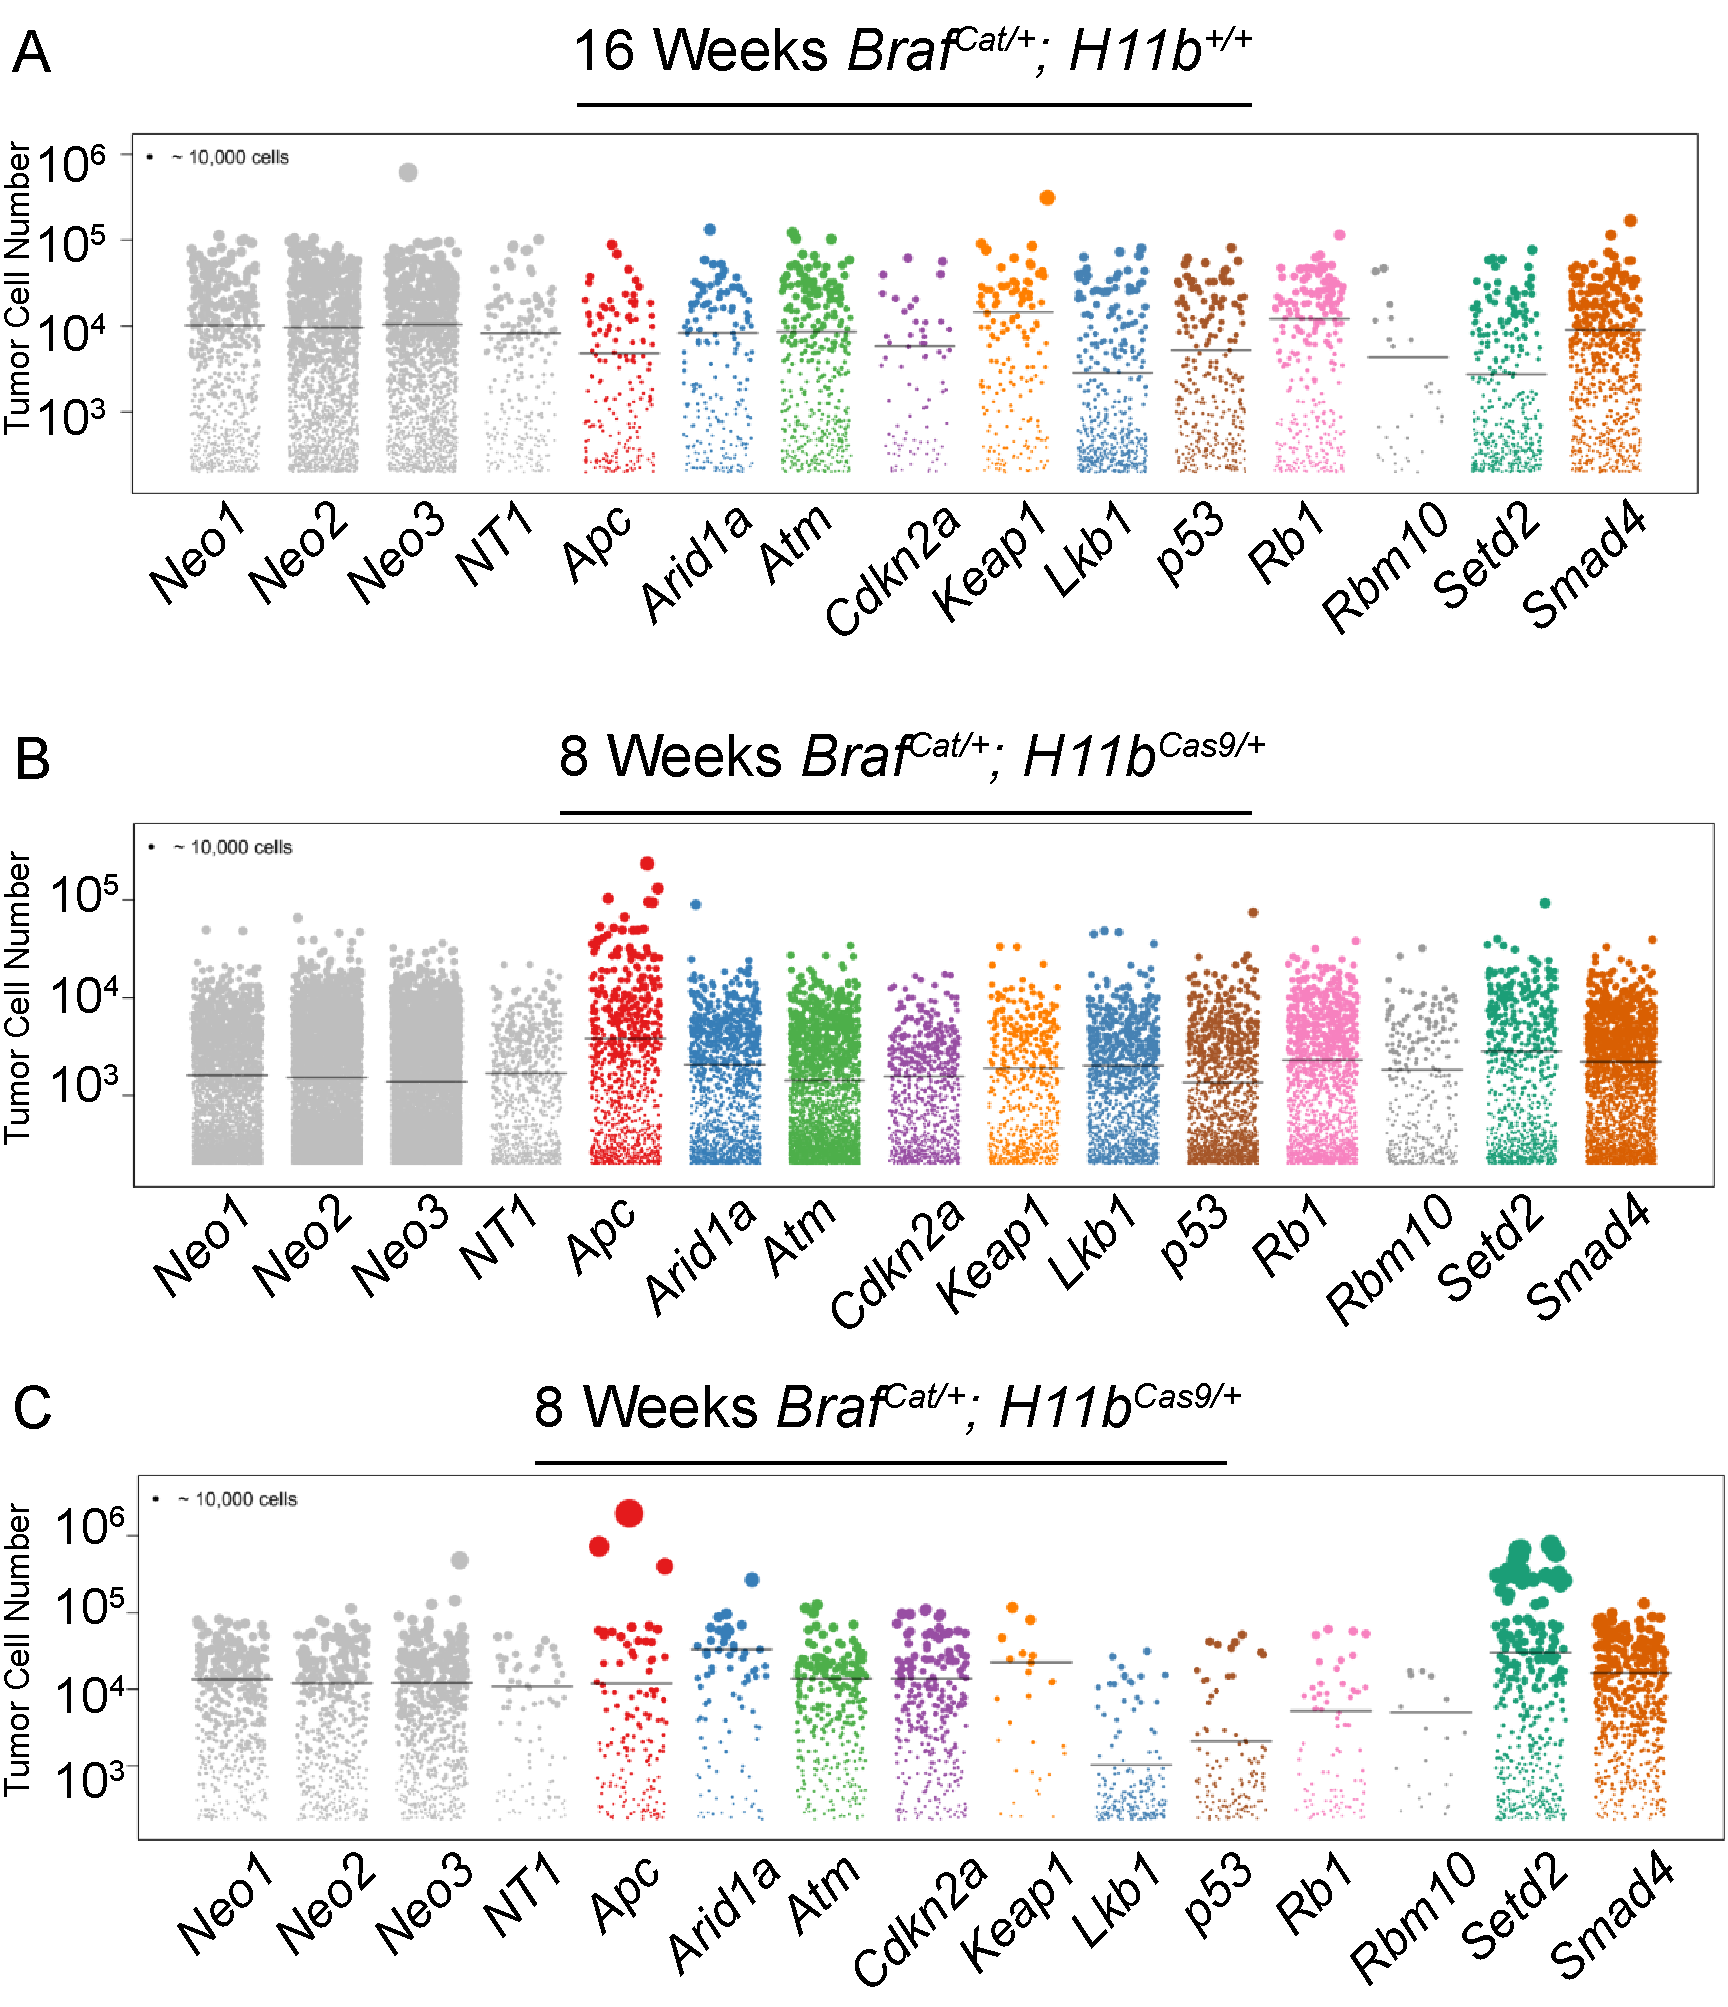
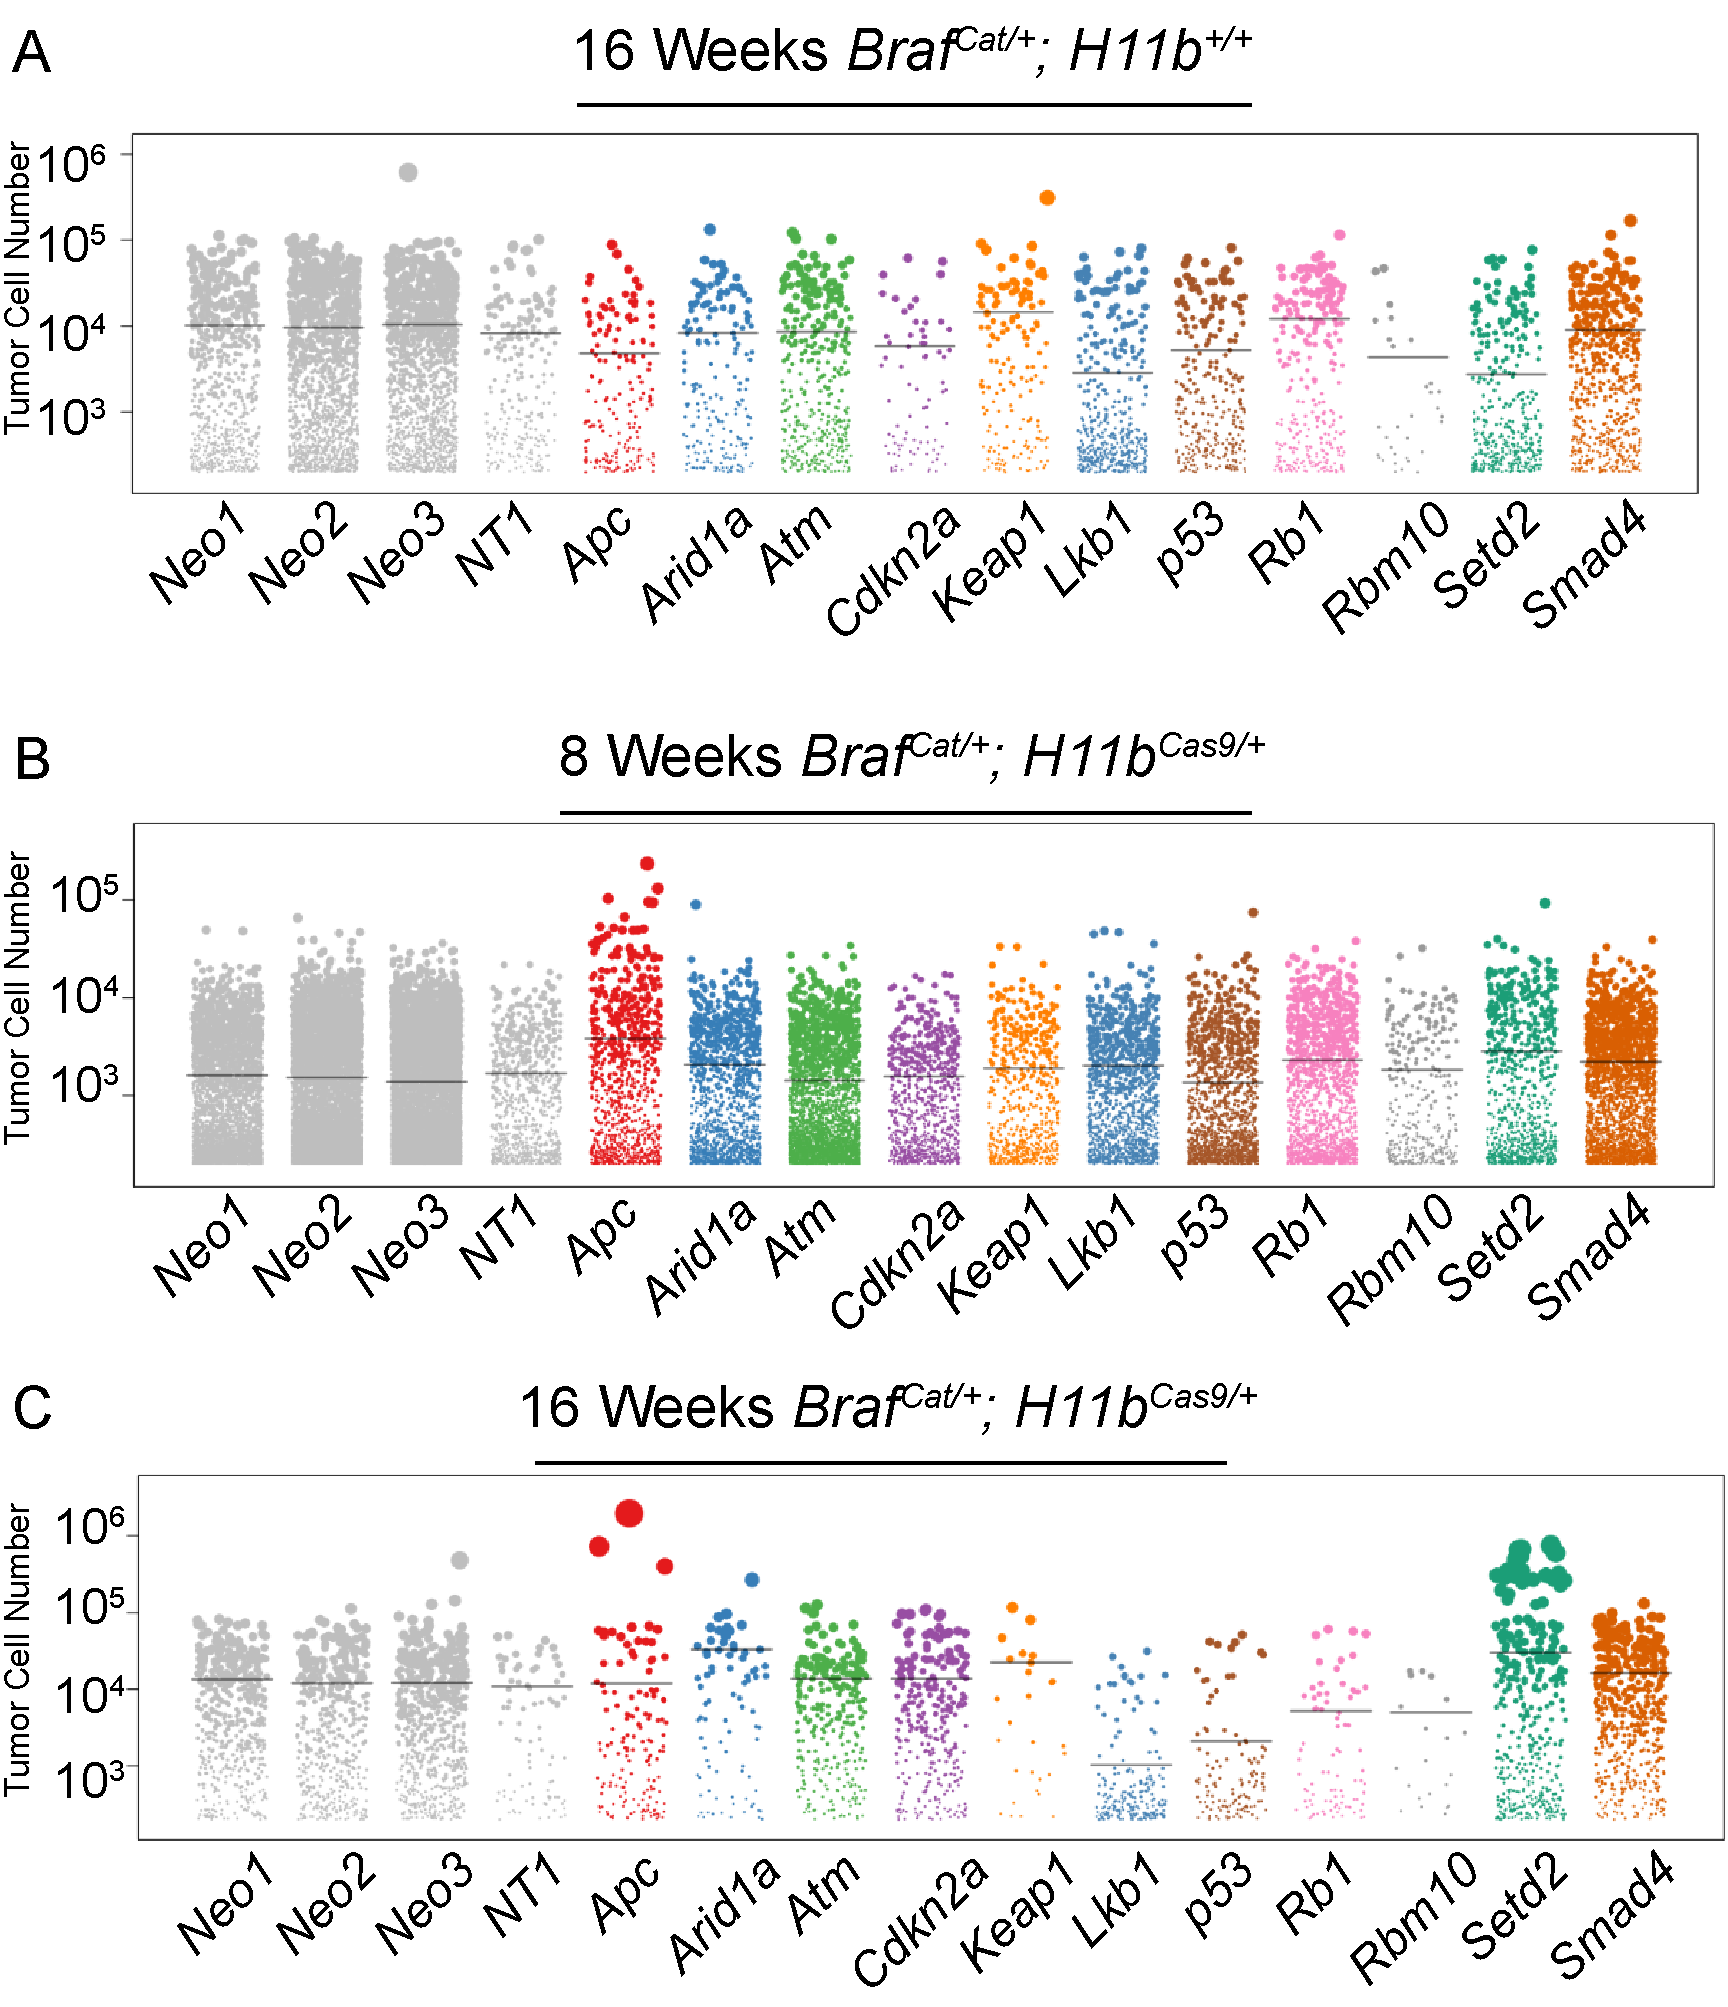
tuba

diff --git a/content/02.tubaseq.md b/content/02.tubaseq.md
@@ -30,11 +30,11 @@ Oncogenic BRAF^V600E^ is a major driver in lung adenocarcinoma. However, mouse m
 
 Our Tuba-Seq analysis revealed that there is a spectrum of BRAF^V600E^ tumors after 16-weeks. This observation would support the idea that just because a cell is activated by BRAF^V600E^, does not mean 
 
-![**Figure 2.1. Overview of Tuba-Seq experimentation** (A) Lenti-sgRNA-Cre plasmid library with collection of targeted tumor supressors. _Braf^CAT/+^_ and _Braf^CAT/+^;H11b^LSL-Cas9/+^_ were infected with either 10^4^ (16 week _Braf^CAT/+^; H11b^LSL-Cas9/+^_) or 10^5^ (8 weeks _Braf^CAT/+^; H11b^LSL-Cas9/+^_ and 16 weeks _Braf^CAT/+^_ alone) (B)  text.](images/tuba1.png){#fig:04 .white width="100%"}
+![**Figure 2.1. Overview of Tuba-Seq experimentation** (A) Lenti-sgRNA-Cre plasmid library with collection of targeted tumor supressors. (B) _Braf^CAT/+^_ and _Braf^CAT/+^;H11b^LSL-Cas9/+^_ were infected with either 10^4^ (16 week _Braf^CAT/+^; H11b^LSL-Cas9/+^_) or 10^5^ (8 weeks _Braf^CAT/+^; H11b^LSL-Cas9/+^_ and 16 weeks _Braf^CAT/+^; H11b^LSL-Cas9/+^_) (B) Representative gross images of experimental mouse lungs.](images/tuba1.png){#fig:04 .white width="100%"}
 
-![**This is the title of Figure** this is the text.](images/tuba2.png){#fig:05 .white width="100%"}
+![**Figure 2.2. Jitter plot of calculated tumor cell number based on Tuba-Seq pipeline. Mean tumor number for 16 weeks _Braf^CAT/+^; H11b^LSL-Cas9/+^_ is 21,248 cells. Mean tumor number for 8 weeks _Braf^CAT/+^; H11b^LSL-Cas9/+^_ is 9,095 cells. Mean tumor number for 16 week _Braf^CAT/+^; H11b^LSL-Cas9/+^_ is 29,867 cells.  ](images/tuba2.png){#fig:05 .white width="100%"}
 
-![**This is the title of Figure** this is the text.](images/tuba3.png){#fig:06 .white width="100%"}  
+![**Figure 2.3. Jitter plot of calculated tumor cell number based on Tuba-Seq pipeline seperated by sgID. (A) 16 weeks _Braf^CAT/+^; H11b^LSL-Cas9/+^_(negative control) has no apparent cooperative genetic events. (B)8 weeks _Braf^CAT/+^; H11b^LSL-Cas9/+^_ identifed Apc loss as a cooperating genetic event based on increase in tumor cell number (C) This is the title of Figure** this is the text.](images/tuba3.png){#fig:06 .white width="100%"}  
   
 ![**This is the title of Figure** this is the text.](images/tuba4.png){#fig:07 .white width="100%"}
 
